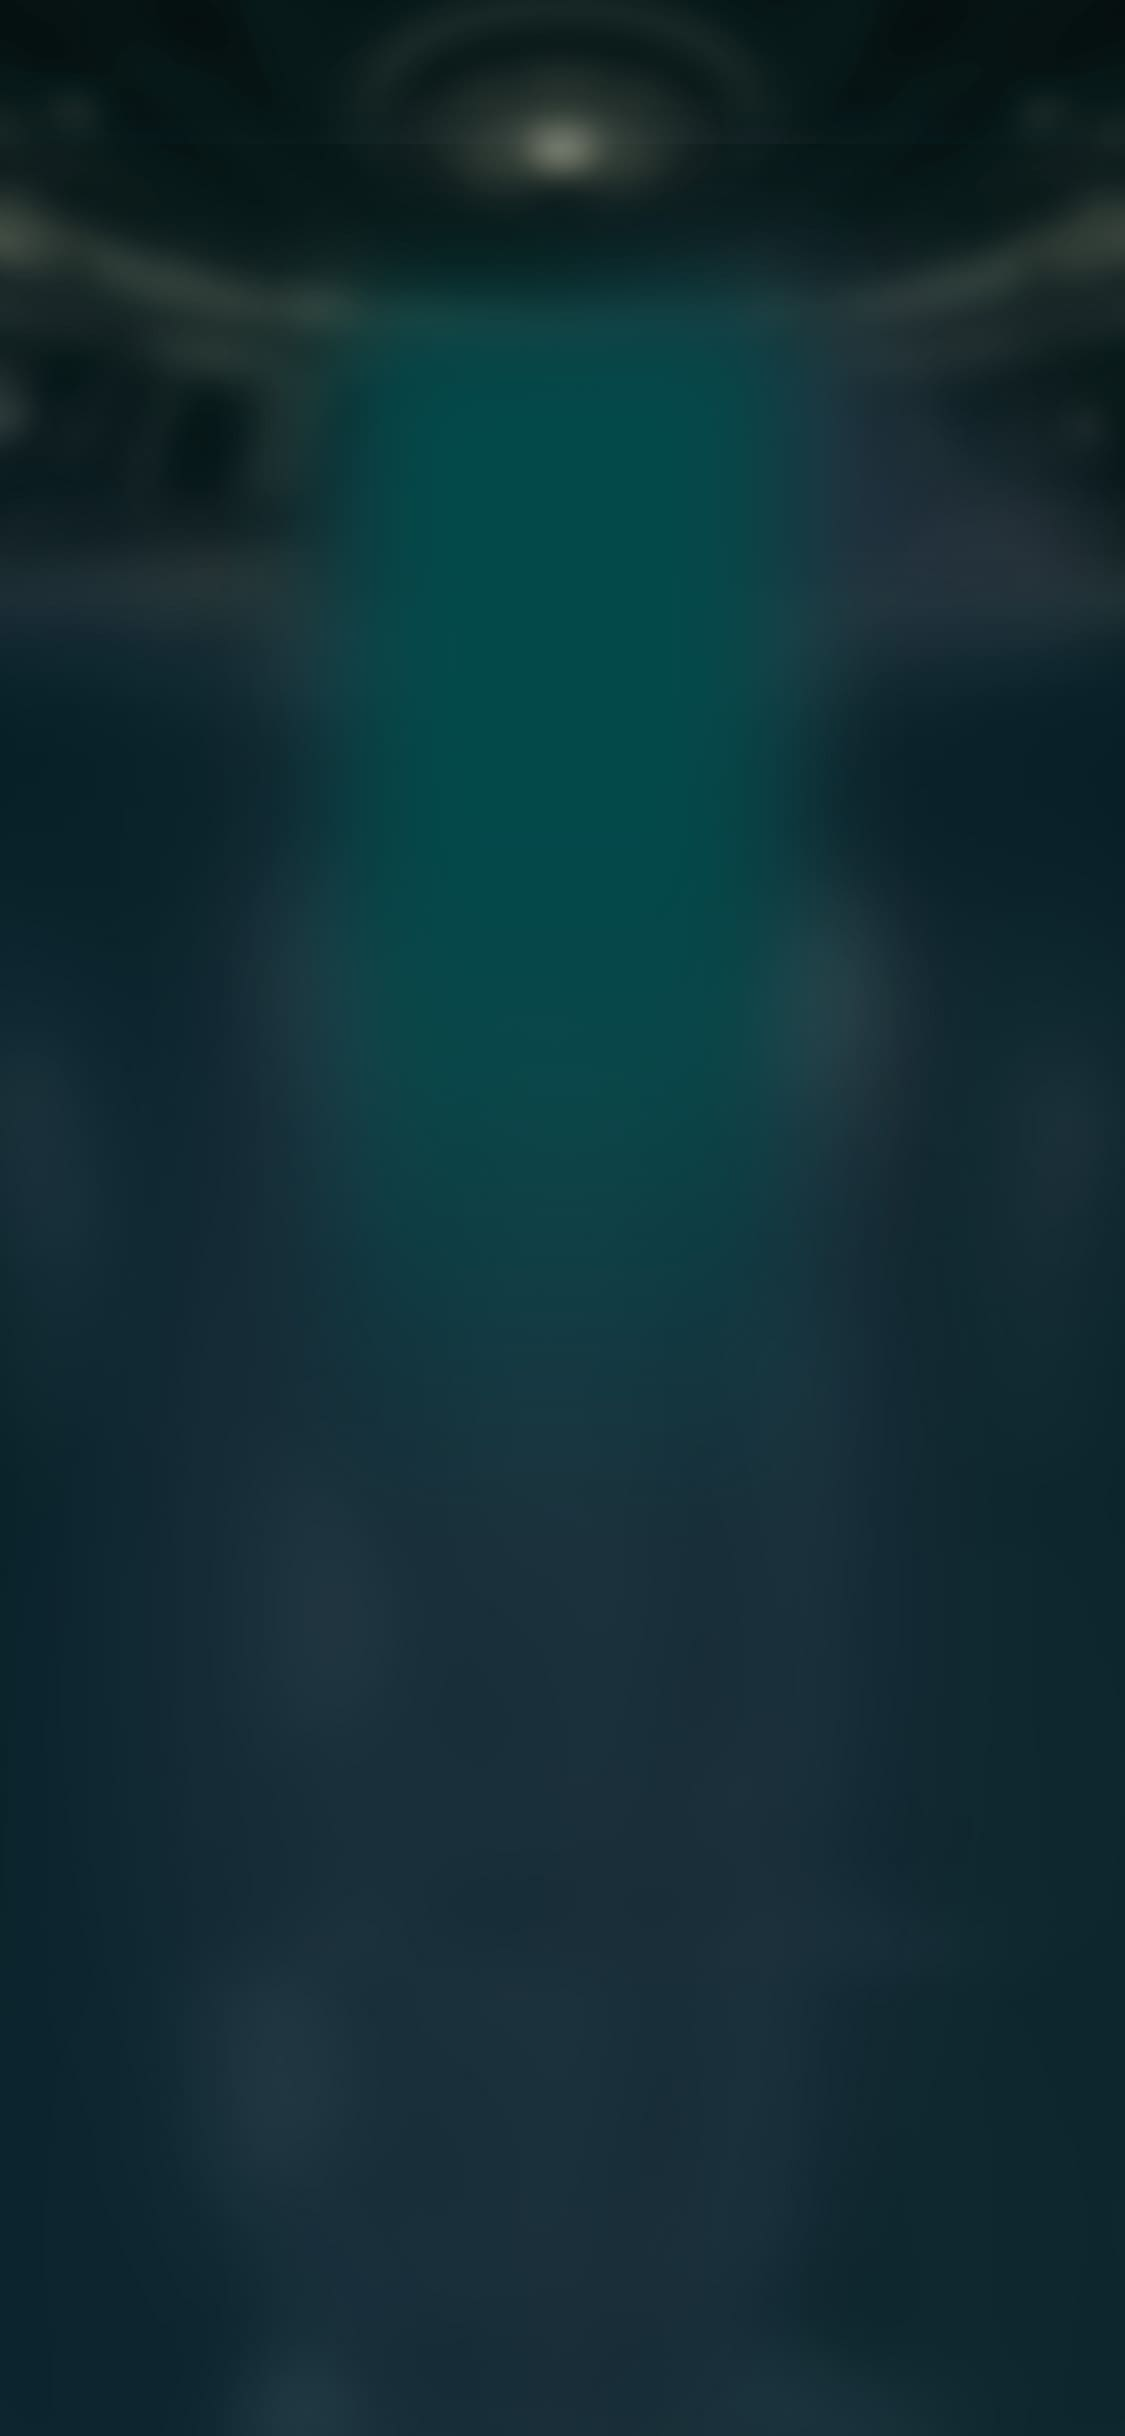
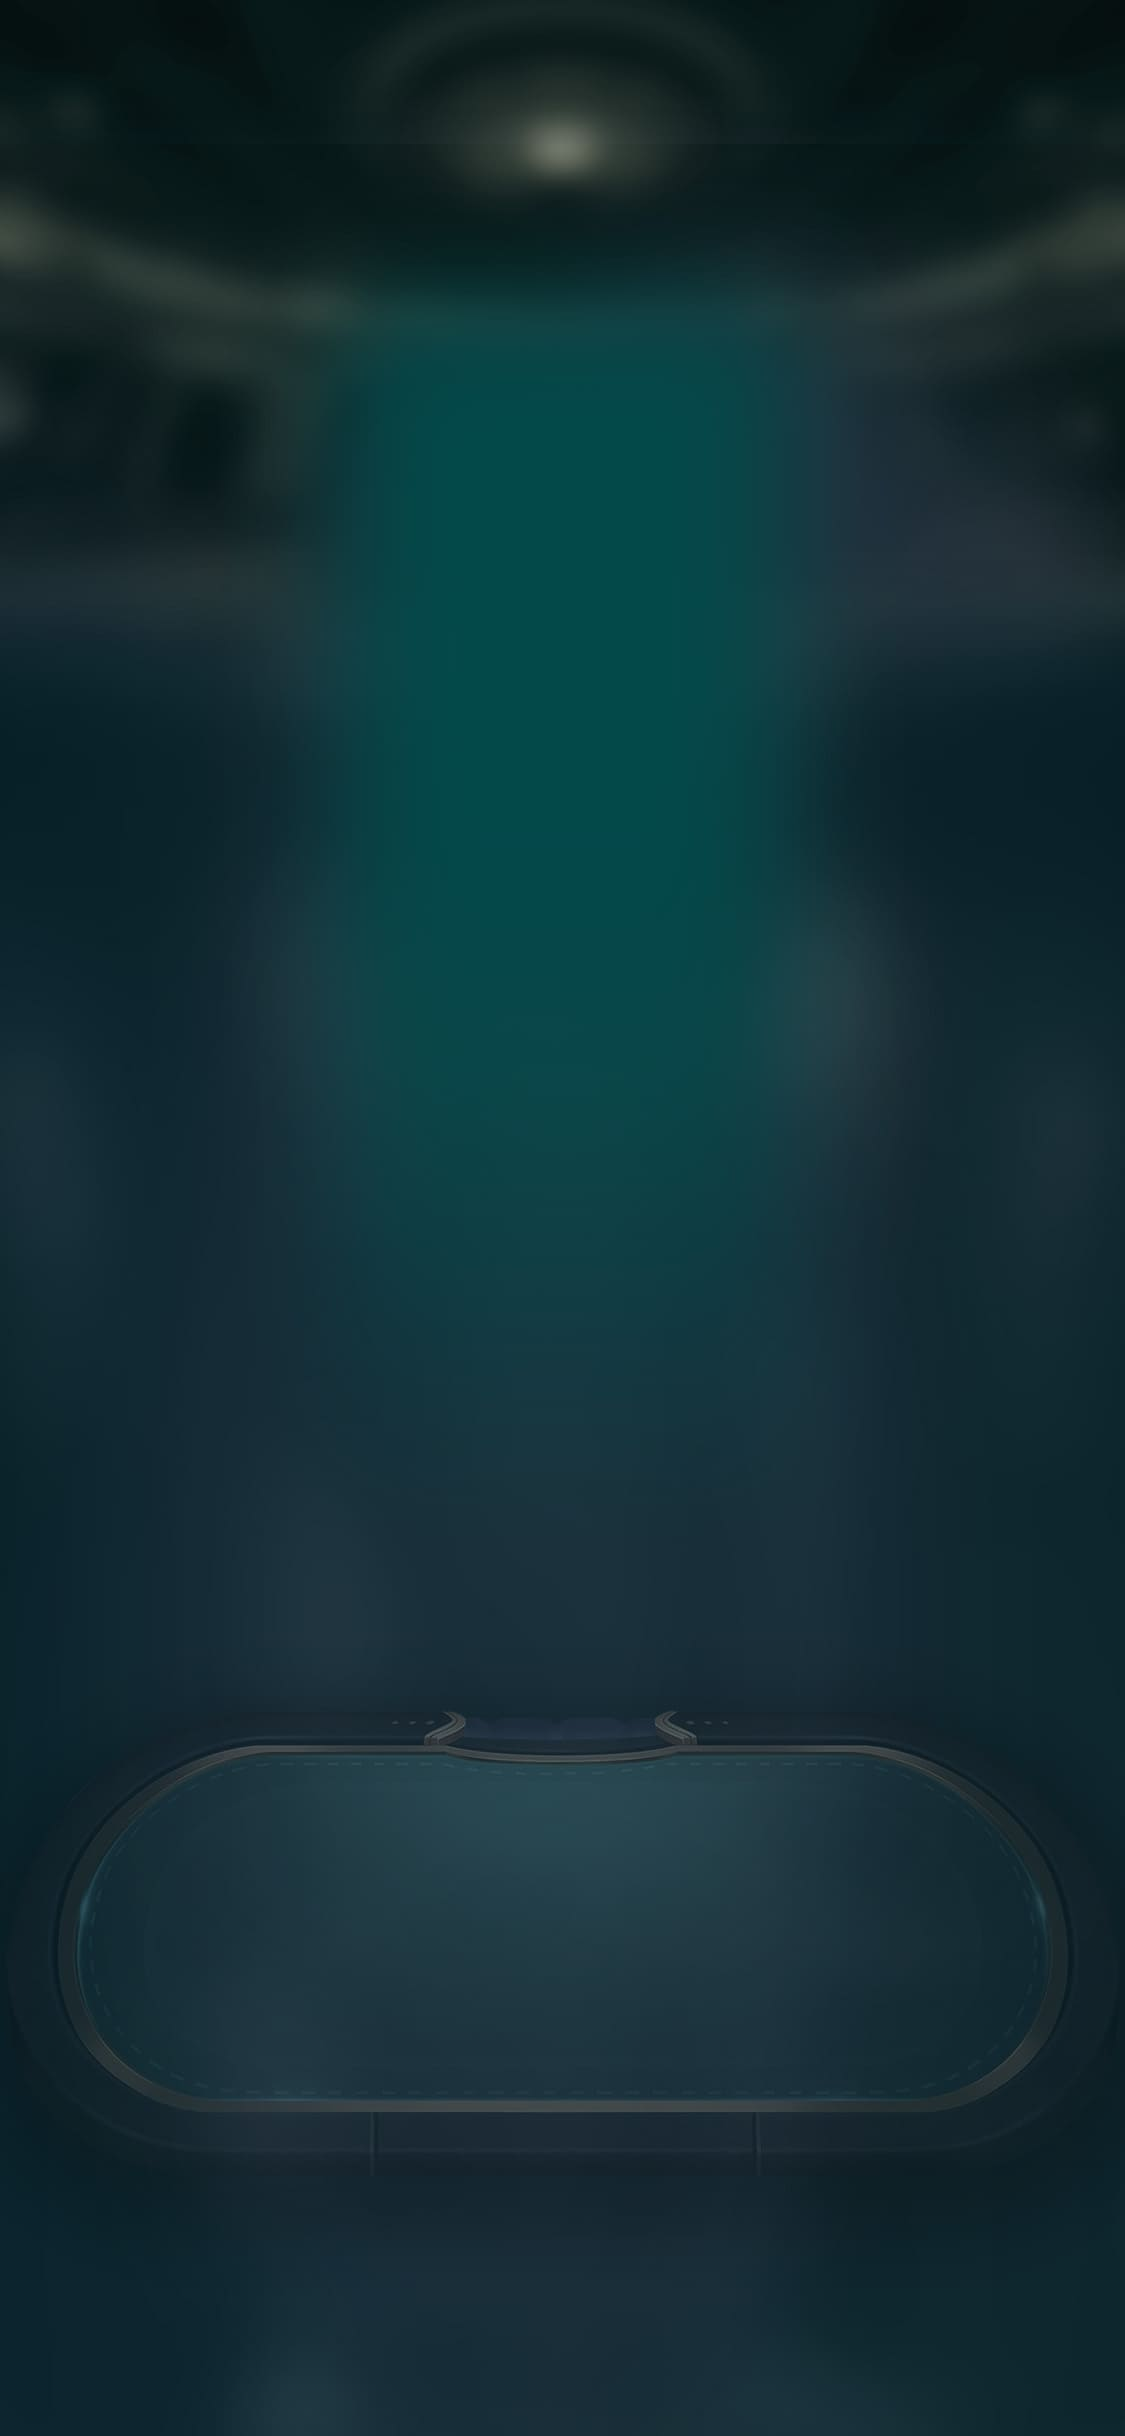
update logic

diff --git a/client/games/qznn/src/views/LobbyPurple.vue b/client/games/qznn/src/views/LobbyPurple.vue
@@ -4,6 +4,7 @@ import { useLobby } from '../composables/useLobby.js';
 import HistoryModal from '../components/HistoryModal.vue';
 import SettingsModal from '../components/SettingsModal.vue';
 import HelpModal from '../components/HelpModal.vue';
+import LobbyBackgroundAnimation from '../components/LobbyBackgroundAnimation.vue';
 
 // Assets
 import avatarFrameImg from '@/assets/common/avatar_circle.png';
@@ -137,6 +138,9 @@ onUnmounted(stopMusic);
                 </TransitionGroup>
             </div>
         </div>
+
+        <LobbyBackgroundAnimation :mode="2" class="purple-lobby-anim" />
+        <div class="lobby-full-glass"></div>
 
         <HistoryModal v-model:visible="showHistory" />
         <SettingsModal v-model:visible="showSettings" />
@@ -426,7 +430,7 @@ onUnmounted(stopMusic);
     position: absolute;
     inset: 0;
     pointer-events: none;
-    z-index: 0;
+    z-index: 1;
     overflow: hidden;
 }
 
@@ -455,17 +459,43 @@ onUnmounted(stopMusic);
 }
 
 @keyframes auroraRise1 {
-    0% { transform: translateY(20%); opacity: 0; }
-    10% { opacity: 0.8; }
-    80% { opacity: 0.8; }
-    100% { transform: translateY(-120vh); opacity: 0; }
+    0% {
+        transform: translateY(20%);
+        opacity: 0;
+    }
+
+    10% {
+        opacity: 0.8;
+    }
+
+    80% {
+        opacity: 0.8;
+    }
+
+    100% {
+        transform: translateY(-120vh);
+        opacity: 0;
+    }
 }
 
 @keyframes auroraRise2 {
-    0% { transform: translateY(20%); opacity: 0; }
-    10% { opacity: 0.7; }
-    80% { opacity: 0.7; }
-    100% { transform: translateY(-120vh); opacity: 0; }
+    0% {
+        transform: translateY(20%);
+        opacity: 0;
+    }
+
+    10% {
+        opacity: 0.7;
+    }
+
+    80% {
+        opacity: 0.7;
+    }
+
+    100% {
+        transform: translateY(-120vh);
+        opacity: 0;
+    }
 }
 
 /* ====== 方案2: 浮动粒子 ====== */
@@ -473,7 +503,7 @@ onUnmounted(stopMusic);
     position: absolute;
     inset: 0;
     pointer-events: none;
-    z-index: 0;
+    z-index: 1;
     overflow: hidden;
 }
 
@@ -519,8 +549,15 @@ onUnmounted(stopMusic);
 }
 
 @keyframes shimmerBreath {
-    0%, 100% { opacity: 0; }
-    50% { opacity: 1; }
+
+    0%,
+    100% {
+        opacity: 0;
+    }
+
+    50% {
+        opacity: 1;
+    }
 }
 
 /* ====== 方案3: 筹码图标发光 ====== */
@@ -538,5 +575,21 @@ onUnmounted(stopMusic);
     50% {
         filter: drop-shadow(0 0 8px rgba(255, 180, 220, 0.6)) drop-shadow(0 0 15px rgba(200, 120, 255, 0.3));
     }
+}
+
+.purple-lobby-anim {
+    bottom: 60px !important;
+}
+
+.lobby-full-glass {
+    position: absolute;
+    top: 0;
+    left: 0;
+    width: 100%;
+    height: 100%;
+    backdrop-filter: blur(6px);
+    background: linear-gradient(to bottom, rgba(0, 0, 0, 0.1), rgba(0, 0, 0, 0.4));
+    pointer-events: none;
+    z-index: 0;
 }
 </style>

diff --git a/client/games/qznn/src/views/LobbyGreen.vue b/client/games/qznn/src/views/LobbyGreen.vue
@@ -4,6 +4,7 @@ import { useLobby } from '../composables/useLobby.js';
 import HistoryModal from '../components/HistoryModal.vue';
 import SettingsModal from '../components/SettingsModal.vue';
 import HelpModal from '../components/HelpModal.vue';
+import LobbyBackgroundAnimation from '../components/LobbyBackgroundAnimation.vue';
 
 // Assets
 import avatarFrameImg from '@/assets/common/avatar_circle.png';
@@ -113,6 +114,9 @@ onUnmounted(stopMusic);
                 </TransitionGroup>
             </div>
         </div>
+
+        <LobbyBackgroundAnimation :mode="1" class="green-lobby-anim" />
+        <div class="lobby-full-glass"></div>
 
         <HistoryModal v-model:visible="showHistory" />
         <SettingsModal v-model:visible="showSettings" />
@@ -512,9 +516,17 @@ onUnmounted(stopMusic);
 }
 
 @keyframes miniBeamSweep {
-    0% { opacity: 0.8; }
-    50% { opacity: 0.15; }
-    100% { opacity: 0.8; }
+    0% {
+        opacity: 0.8;
+    }
+
+    50% {
+        opacity: 0.15;
+    }
+
+    100% {
+        opacity: 0.8;
+    }
 }
 
 .room-stat {
@@ -547,5 +559,21 @@ onUnmounted(stopMusic);
     height: 35px;
     width: auto;
     object-fit: contain;
+}
+
+.green-lobby-anim {
+    bottom: 38px !important;
+}
+
+.lobby-full-glass {
+    position: absolute;
+    top: 0;
+    left: 0;
+    width: 100%;
+    height: 100%;
+    backdrop-filter: blur(6px);
+    background: linear-gradient(to bottom, rgba(0, 0, 0, 0.1), rgba(0, 0, 0, 0.4));
+    pointer-events: none;
+    z-index: 0;
 }
 </style>
